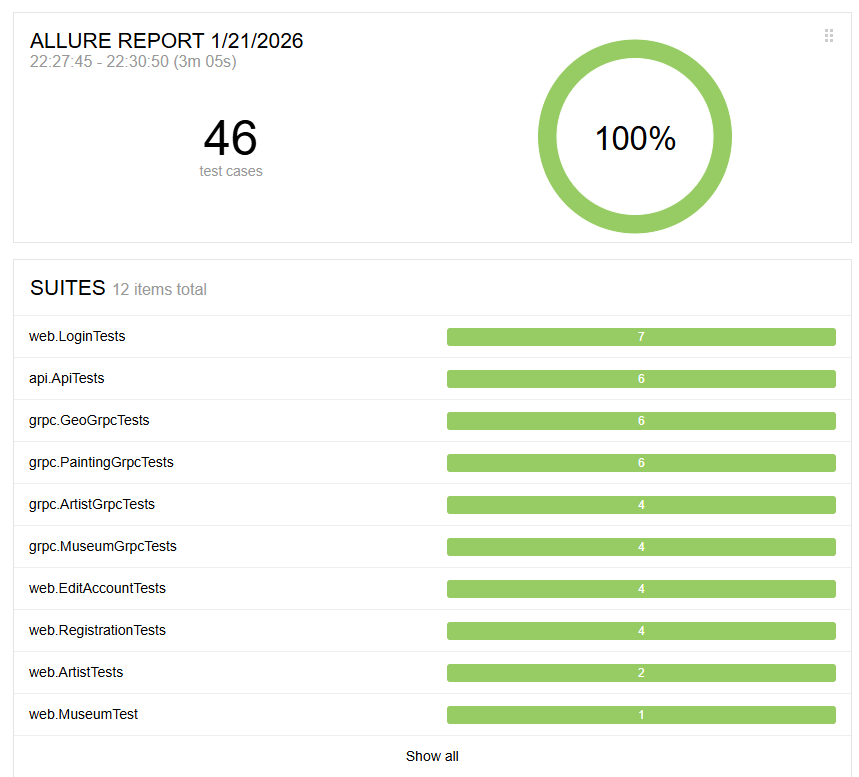
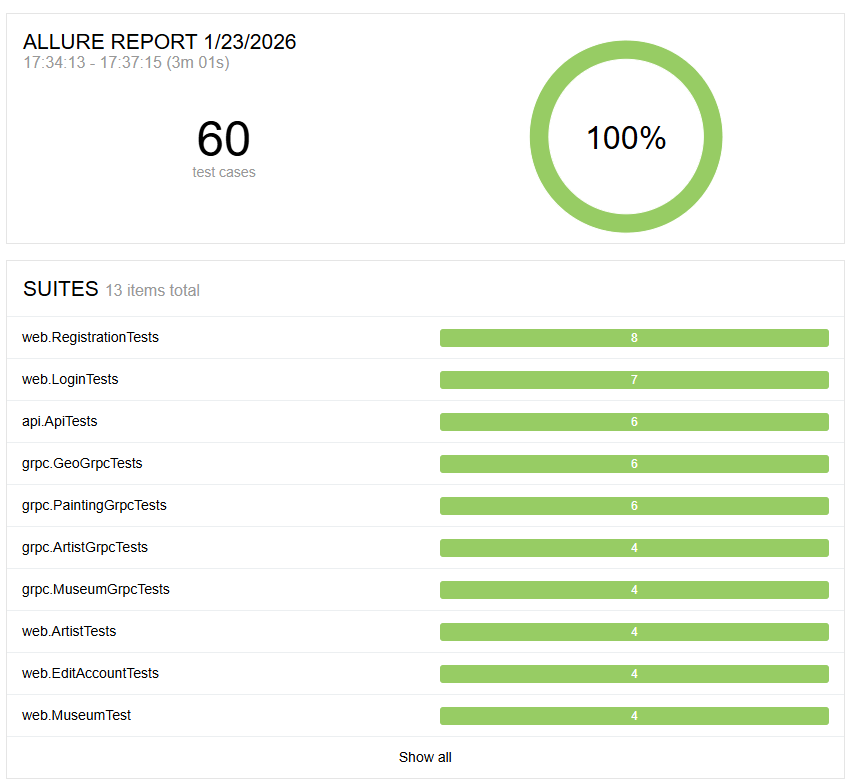
Обновление readme

diff --git a/rococo-e2e-tests/src/test/java/web/RegistrationTests.java b/rococo-e2e-tests/src/test/java/web/RegistrationTests.java
@@ -28,7 +28,7 @@ public class RegistrationTests extends BaseUiTest {
     }
 
     @Test
-    @DisplayName("Юзер может быть зарегестрирован c зернеймом на кириллице")
+    @DisplayName("Юзер может быть зарегестрирован c юзернеймом на кириллице")
     public void userCanBeRegisteredWithCyrillicUsernameTest() {
         UserJson user = new UserJson(null, InputGenerators.randomCyrillicUsername(), null, null,
                 null, new TestData(InputGenerators.randomPassword()));
@@ -69,4 +69,93 @@ public class RegistrationTests extends BaseUiTest {
                 .submitBtn.click();
         userRepositoryHibernate.checkUserNotExist(user);
     }
+
+    @Test
+    @DisplayName("Нельзя зарегистрироваться с пустым паролем")
+    public void userCantBeRegisteredWithEmptyPasswordTest() {
+        UserJson user = UserJson.getRandomUser();
+        Selenide.open(CFG.frontUrl());
+        mainPage().loginBtn.click();
+        loginPage().registerBtn.click();
+        registerPage()
+                .usernameInput.fill(user.username())
+                .submitBtn.click();
+        userRepositoryHibernate.checkUserNotExist(user);
+    }
+
+    @Test
+    @DisplayName("Нельзя зарегистрироваться со слишком коротким паролем")
+    public void userCantBeRegisteredWithShortPasswordTest() {
+        UserJson user = new UserJson(
+                null,
+                InputGenerators.randomUsername(),
+                null,
+                null,
+                null,
+                new TestData(InputGenerators.randomSentence(2))
+        );
+
+        Selenide.open(CFG.frontUrl());
+        mainPage().loginBtn.click();
+        loginPage().registerBtn.click();
+
+        registerPage()
+                .usernameInput.fill(user.username())
+                .passwordInput.fill(user.testData().password())
+                .passwordSubmitInput.fill(user.testData().password())
+                .submitBtn.click()
+                .error.checkVisible();
+
+        userRepositoryHibernate.checkUserNotExist(user);
+    }
+
+    @Test
+    @DisplayName("Нельзя зарегистрироваться со слишком длинным паролем")
+    public void userCantBeRegisteredWithLongPasswordTest() {
+        UserJson user = new UserJson(
+                null,
+                InputGenerators.randomUsername(),
+                null,
+                null,
+                null,
+                new TestData(InputGenerators.randomSentence(14))
+        );
+
+        Selenide.open(CFG.frontUrl());
+        mainPage().loginBtn.click();
+        loginPage().registerBtn.click();
+        registerPage()
+                .usernameInput.fill(user.username())
+                .passwordInput.fill(user.testData().password())
+                .passwordSubmitInput.fill(user.testData().password())
+                .submitBtn.click()
+                .error.checkVisible();
+
+        userRepositoryHibernate.checkUserNotExist(user);
+    }
+
+    @Test
+    @DisplayName("Ошибка регистрации исчезает после корректного ввода данных")
+    public void registrationErrorDisappearsAfterValidInputTest() {
+        UserJson user = UserJson.getRandomUser();
+        Selenide.open(CFG.frontUrl());
+        mainPage().loginBtn.click();
+        loginPage().registerBtn.click();
+
+        registerPage()
+                .usernameInput.fill(user.username())
+                .passwordInput.fill("123")
+                .passwordSubmitInput.fill("456")
+                .submitBtn.click()
+                .error.checkVisible();
+
+        registerPage()
+                .passwordInput.clearThenFill(user.testData().password())
+                .passwordSubmitInput.clearThenFill(user.testData().password())
+                .submitBtn.click();
+
+        userRepositoryHibernate.checkUserExist(user);
+        userRepositoryHibernate.deleteUser(user);
+    }
+
 }

diff --git a/rococo-e2e-tests/src/test/java/web/PaintingTests.java b/rococo-e2e-tests/src/test/java/web/PaintingTests.java
@@ -1,17 +1,21 @@
 package web;
 
+import data.DataPresets;
 import jupiter.annotations.*;
+import model.ArtistJson;
+import model.MuseumJson;
 import model.PaintingJson;
 import model.UserJson;
 import org.junit.jupiter.api.DisplayName;
 import org.junit.jupiter.api.Test;
 import ui.BaseUiTest;
+import utils.InputGenerators;
 
 @WebTest
 public class PaintingTests extends BaseUiTest {
 
     @Test
-    @DisplayName("Картинка может быть найдена с помощью поиска")
+    @DisplayName("Картина может быть найдена с помощью поиска")
     @User
     @Artist
     @Museum
@@ -26,4 +30,57 @@ public class PaintingTests extends BaseUiTest {
                 .table.checkTableSize(1);
 
     }
+
+    @Test
+    @User
+    @Museum
+    @Artist
+    @Painting
+    @DisplayName("Картина находится по части названия")
+    void checkPaintingCanBeFoundByPartialTitle(UserJson user, PaintingJson painting) {
+        commonSteps().login(user);
+        mainPage().paintings.click();
+        String partialTitle = painting.getTitle().substring(0, 4);
+        paintingPage()
+                .searchInput.fill(partialTitle)
+                .searchBtn.click()
+                .table.checkCellExistByName(painting.getTitle());
+    }
+
+    @Test
+    @User
+    @DisplayName("Поиск по несуществующей картине")
+    void checkPaintingSearchWithNoResults(UserJson user) {
+        commonSteps().login(user);
+        mainPage().paintings.click();
+        paintingPage()
+                .searchInput.fill("Non Existing Painting")
+                .searchBtn.click()
+                .table.checkTableEmpty();
+    }
+
+    @Test
+    @User
+    @Artist
+    @Museum
+    @DisplayName("Добавление новой картины")
+    void checkPaintingCanBeAdded(UserJson user, MuseumJson museum, ArtistJson artist) {
+        String name = InputGenerators.randomPaintingName();
+        commonSteps().login(user);
+        mainPage().paintings.click();
+        paintingPage()
+                .addPicture.click();
+        paintingPage()
+                .addPictureModal()
+                .title.fill(name)
+                .museumStorage.choose(museum.getTitle())
+                .description.fill(InputGenerators.randomPaintingDescription())
+                .imageUpload.uploadFile("test.png")
+                .author.choose(artist.getName())
+                .submit.click();
+        paintingPage()
+                .table.checkCellExistByName(name);
+        paintingRepositoryHibernate.deletePainting(name);
+    }
+
 }

diff --git a/rococo-e2e-tests/src/test/java/web/MuseumTest.java b/rococo-e2e-tests/src/test/java/web/MuseumTest.java
@@ -8,6 +8,7 @@ import model.UserJson;
 import org.junit.jupiter.api.DisplayName;
 import org.junit.jupiter.api.Test;
 import ui.BaseUiTest;
+import utils.InputGenerators;
 
 @WebTest
 public class MuseumTest extends BaseUiTest {
@@ -25,4 +26,54 @@ public class MuseumTest extends BaseUiTest {
                 .table.checkCellExistByName(museum.getTitle())
                 .table.checkTableSize(1);
     }
+
+    @Test
+    @User
+    @DisplayName("Пользователь может добавить новый музей")
+    void checkMuseumCanBeAdded(UserJson user) {
+        String name = InputGenerators.randomName();
+        commonSteps().login(user);
+        mainPage().museum.click();
+        museumPage()
+                .addMuseum.click();
+        museumPage()
+                .addMuseumModal()
+                .title.fill(name)
+                .country.choose("Австралия")
+                .city.fill("Сидней")
+                .description.fill(InputGenerators.randomMuseumDescription())
+                .imageUpload.uploadFile("test.png")
+                .submit.click();
+
+        museumPage()
+                .table.checkCellExistByName(name);
+        museumRepositoryHibernate.deleteMuseum(name);
+    }
+
+    @Test
+    @User
+    @DisplayName("Поиск по несуществующему музею")
+    void checkMuseumSearchWithNoResults(UserJson user) {
+        commonSteps().login(user);
+        mainPage().museum.click();
+        museumPage()
+                .searchInput.fill("Non Existing Museum")
+                .searchBtn.click()
+                .table.checkTableEmpty();
+    }
+
+    @Test
+    @User
+    @Museum
+    @DisplayName("Музей находится по части названия")
+    void checkMuseumCanBeFoundByPartialTitle(UserJson user, MuseumJson museum) {
+        commonSteps().login(user);
+        mainPage().museum.click();
+        String partialTitle = museum.getTitle().substring(0, 3);
+        museumPage()
+                .searchInput.fill(partialTitle)
+                .searchBtn.click()
+                .table.checkCellExistByName(museum.getTitle());
+    }
+
 }

diff --git a/rococo-e2e-tests/src/test/java/web/ArtistTests.java b/rococo-e2e-tests/src/test/java/web/ArtistTests.java
@@ -9,6 +9,7 @@ import model.UserJson;
 import org.junit.jupiter.api.DisplayName;
 import org.junit.jupiter.api.Test;
 import ui.BaseUiTest;
+import utils.InputGenerators;
 
 @WebTest
 public class ArtistTests extends BaseUiTest {
@@ -41,5 +42,38 @@ public class ArtistTests extends BaseUiTest {
                 .table.checkCellExistByName(DataPresets.getFlagellationOfChrist().getTitle())
                 .table.checkCellExistByName(DataPresets.getTheHeavenlyLoveAndEarthlyLove().getTitle())
                 .table.checkTableSize(2);
+    }
+
+    @Test
+    @User
+    @DisplayName("Создание художника")
+    void checkArtistCanBeAdded(UserJson user) {
+        String name = InputGenerators.randomArtistName();
+        commonSteps().login(user);
+        mainPage().artists.click();
+        artistsPage()
+                .addArtist.click();
+        artistsPage()
+                .addArtistModal()
+                .name.fill(name)
+                .biography.fill(InputGenerators.randomArtistBio())
+                .imageUpload.uploadFile("test.png")
+                .submit.click();
+        artistsPage()
+                .table.checkCellExistByName(name);
+        artistRepositoryHibernate.deleteArtist(name);
+    }
+
+    @Test
+    @User
+    @DisplayName("Поиск по несуществующему художнику")
+    void checkSearchWithNoResults(UserJson user) {
+        commonSteps().login(user);
+        mainPage().artists.click();
+
+        artistsPage()
+                .searchInput.fill("Non Existing Artist")
+                .searchBtn.click()
+                .table.checkTableEmpty();
     }
 }

diff --git a/rococo-e2e-tests/src/test/java/web/ScreenTest.java b/rococo-e2e-tests/src/test/java/web/ScreenTest.java
@@ -2,7 +2,6 @@ package web;
 
 import jupiter.annotations.ScreenShotTest;
 import org.junit.jupiter.api.DisplayName;
-import org.junit.jupiter.api.Test;
 import ui.BaseUiTest;
 
 import java.awt.image.BufferedImage;
@@ -11,8 +10,14 @@ import java.io.IOException;
 public class ScreenTest extends BaseUiTest {
 
     @ScreenShotTest(expected = "main_page_preset.png")
-    @DisplayName("Успешная авторизация")
-    public void successfulLoginTest(BufferedImage expectedImage) throws IOException {
+    @DisplayName("Отображение пресета главной страницы")
+    public void checkMainPagePreset(BufferedImage expectedImage) throws IOException {
         mainPage().welcomeScreen.checkScreenshotAreIdenticalWithPic(expectedImage);
+    }
+
+    @ScreenShotTest(expected = "sidebar.png")
+    @DisplayName("Отображение сайдбара")
+    public void checkSidebar(BufferedImage expectedImage) throws IOException {
+        mainPage().sidebar.checkScreenshotAreIdenticalWithPic(expectedImage);
     }
 }

diff --git a/rococo-e2e-tests/src/main/java/ui/components/Select.java b/rococo-e2e-tests/src/main/java/ui/components/Select.java
@@ -16,19 +16,19 @@ public class Select <T> extends ui.components.BaseComponent<T> {
     }
 
 
-    public Select choose(String variant) {
+    public T choose(String variant) {
         $(locator).shouldBe(Condition.visible);
         $(locator).scrollTo();
-        ElementsCollection list = $(locator).findAll(By.xpath("//option"));
+        ElementsCollection list = $(locator).findAll(By.xpath(".//option"));
         for (SelenideElement row : list) {
             if (row.getText().contains(variant)) {
                 row.shouldBe(Condition.exist);
                 row.scrollTo();
                 row.shouldBe(Condition.visible);
                 row.click();
-                return this;
+                return page;
             }
         }
-        return this;
+        return page;
     }
 }

diff --git a/rococo-e2e-tests/src/main/java/ui/page/MainPage.java b/rococo-e2e-tests/src/main/java/ui/page/MainPage.java
@@ -10,6 +10,7 @@ import ui.components.UploadFile;
 @Slf4j
 public class MainPage {
 
+    public final Picture<MainPage> sidebar = new Picture<>(By.cssSelector("div[data-testid=app-bar]"), this);
     public final Button<MainPage> paintings = new Button<>(By.cssSelector("img[alt='Ссылка на картины']"), this);
     public final Button<MainPage> artists = new Button<>(By.cssSelector("img[alt='Ссылка на художников']"), this);
     public final Button<MainPage> museum = new Button<>(By.cssSelector("img[alt='Ссылка на музеи']"), this);

diff --git a/rococo-e2e-tests/src/main/java/ui/page/PaintingPage.java b/rococo-e2e-tests/src/main/java/ui/page/PaintingPage.java
@@ -24,7 +24,7 @@ public class PaintingPage {
                 new Select<>(By.cssSelector("select[name=authorId]"), this);
 
         public final LineEdit<AddPictureModal> description =
-                new LineEdit<>(By.cssSelector("text[name=description]"), this);
+                new LineEdit<>(By.cssSelector("textarea[name=description]"), this);
 
         public final Select<AddPictureModal> museumStorage =
                 new Select<>(By.cssSelector("select[name=museumId]"), this);

diff --git a/rococo-e2e-tests/src/main/java/data/entities/AuthUserEntity.java b/rococo-e2e-tests/src/main/java/data/entities/AuthUserEntity.java
@@ -4,7 +4,10 @@ import data.enums.Authority;
 import jakarta.persistence.*;
 import lombok.Getter;
 import lombok.Setter;
+import model.TestData;
+import model.UserJson;
 import org.hibernate.proxy.HibernateProxy;
+import utils.InputGenerators;
 
 import java.util.*;
 

diff --git a/rococo-e2e-tests/src/main/java/ui/components/Table.java b/rococo-e2e-tests/src/main/java/ui/components/Table.java
@@ -26,7 +26,7 @@ public class Table<T> extends BaseComponent<T> {
     }
 
     public T checkTableEmpty() {
-        Assertions.assertEquals(0, findAllCells().size());
+        $(locator).shouldNotBe(Condition.exist);
         return page;
     }
 
